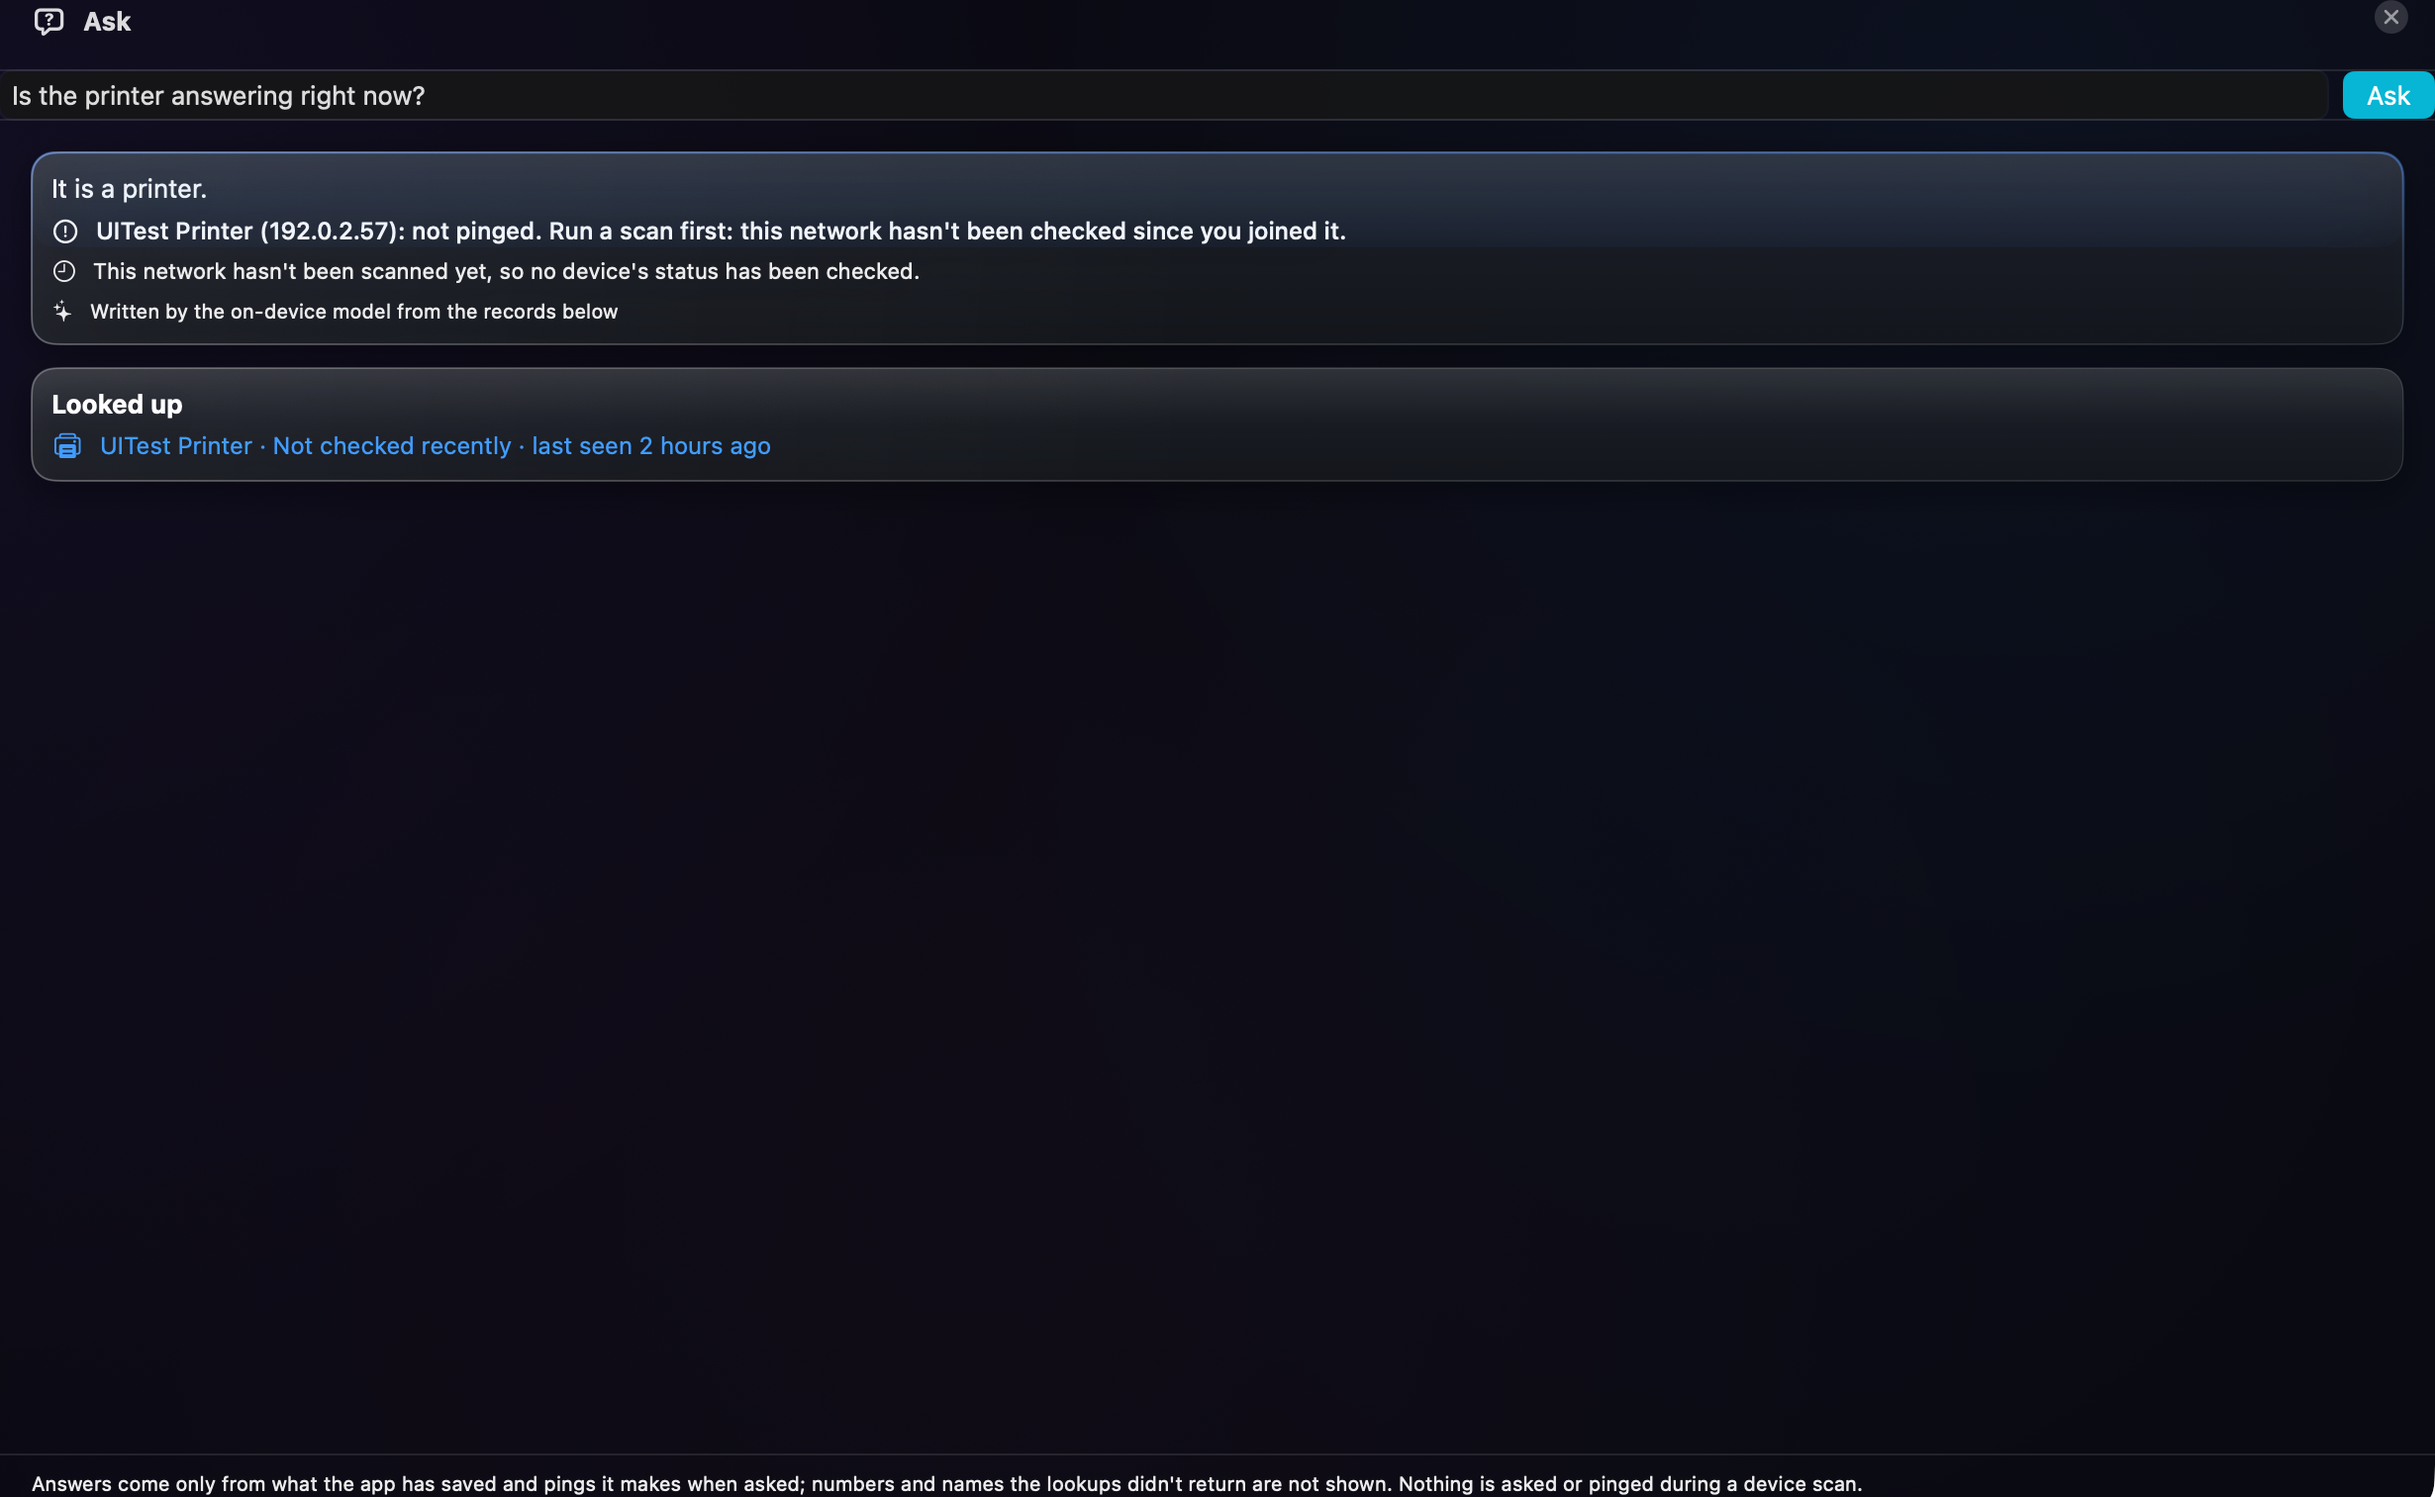
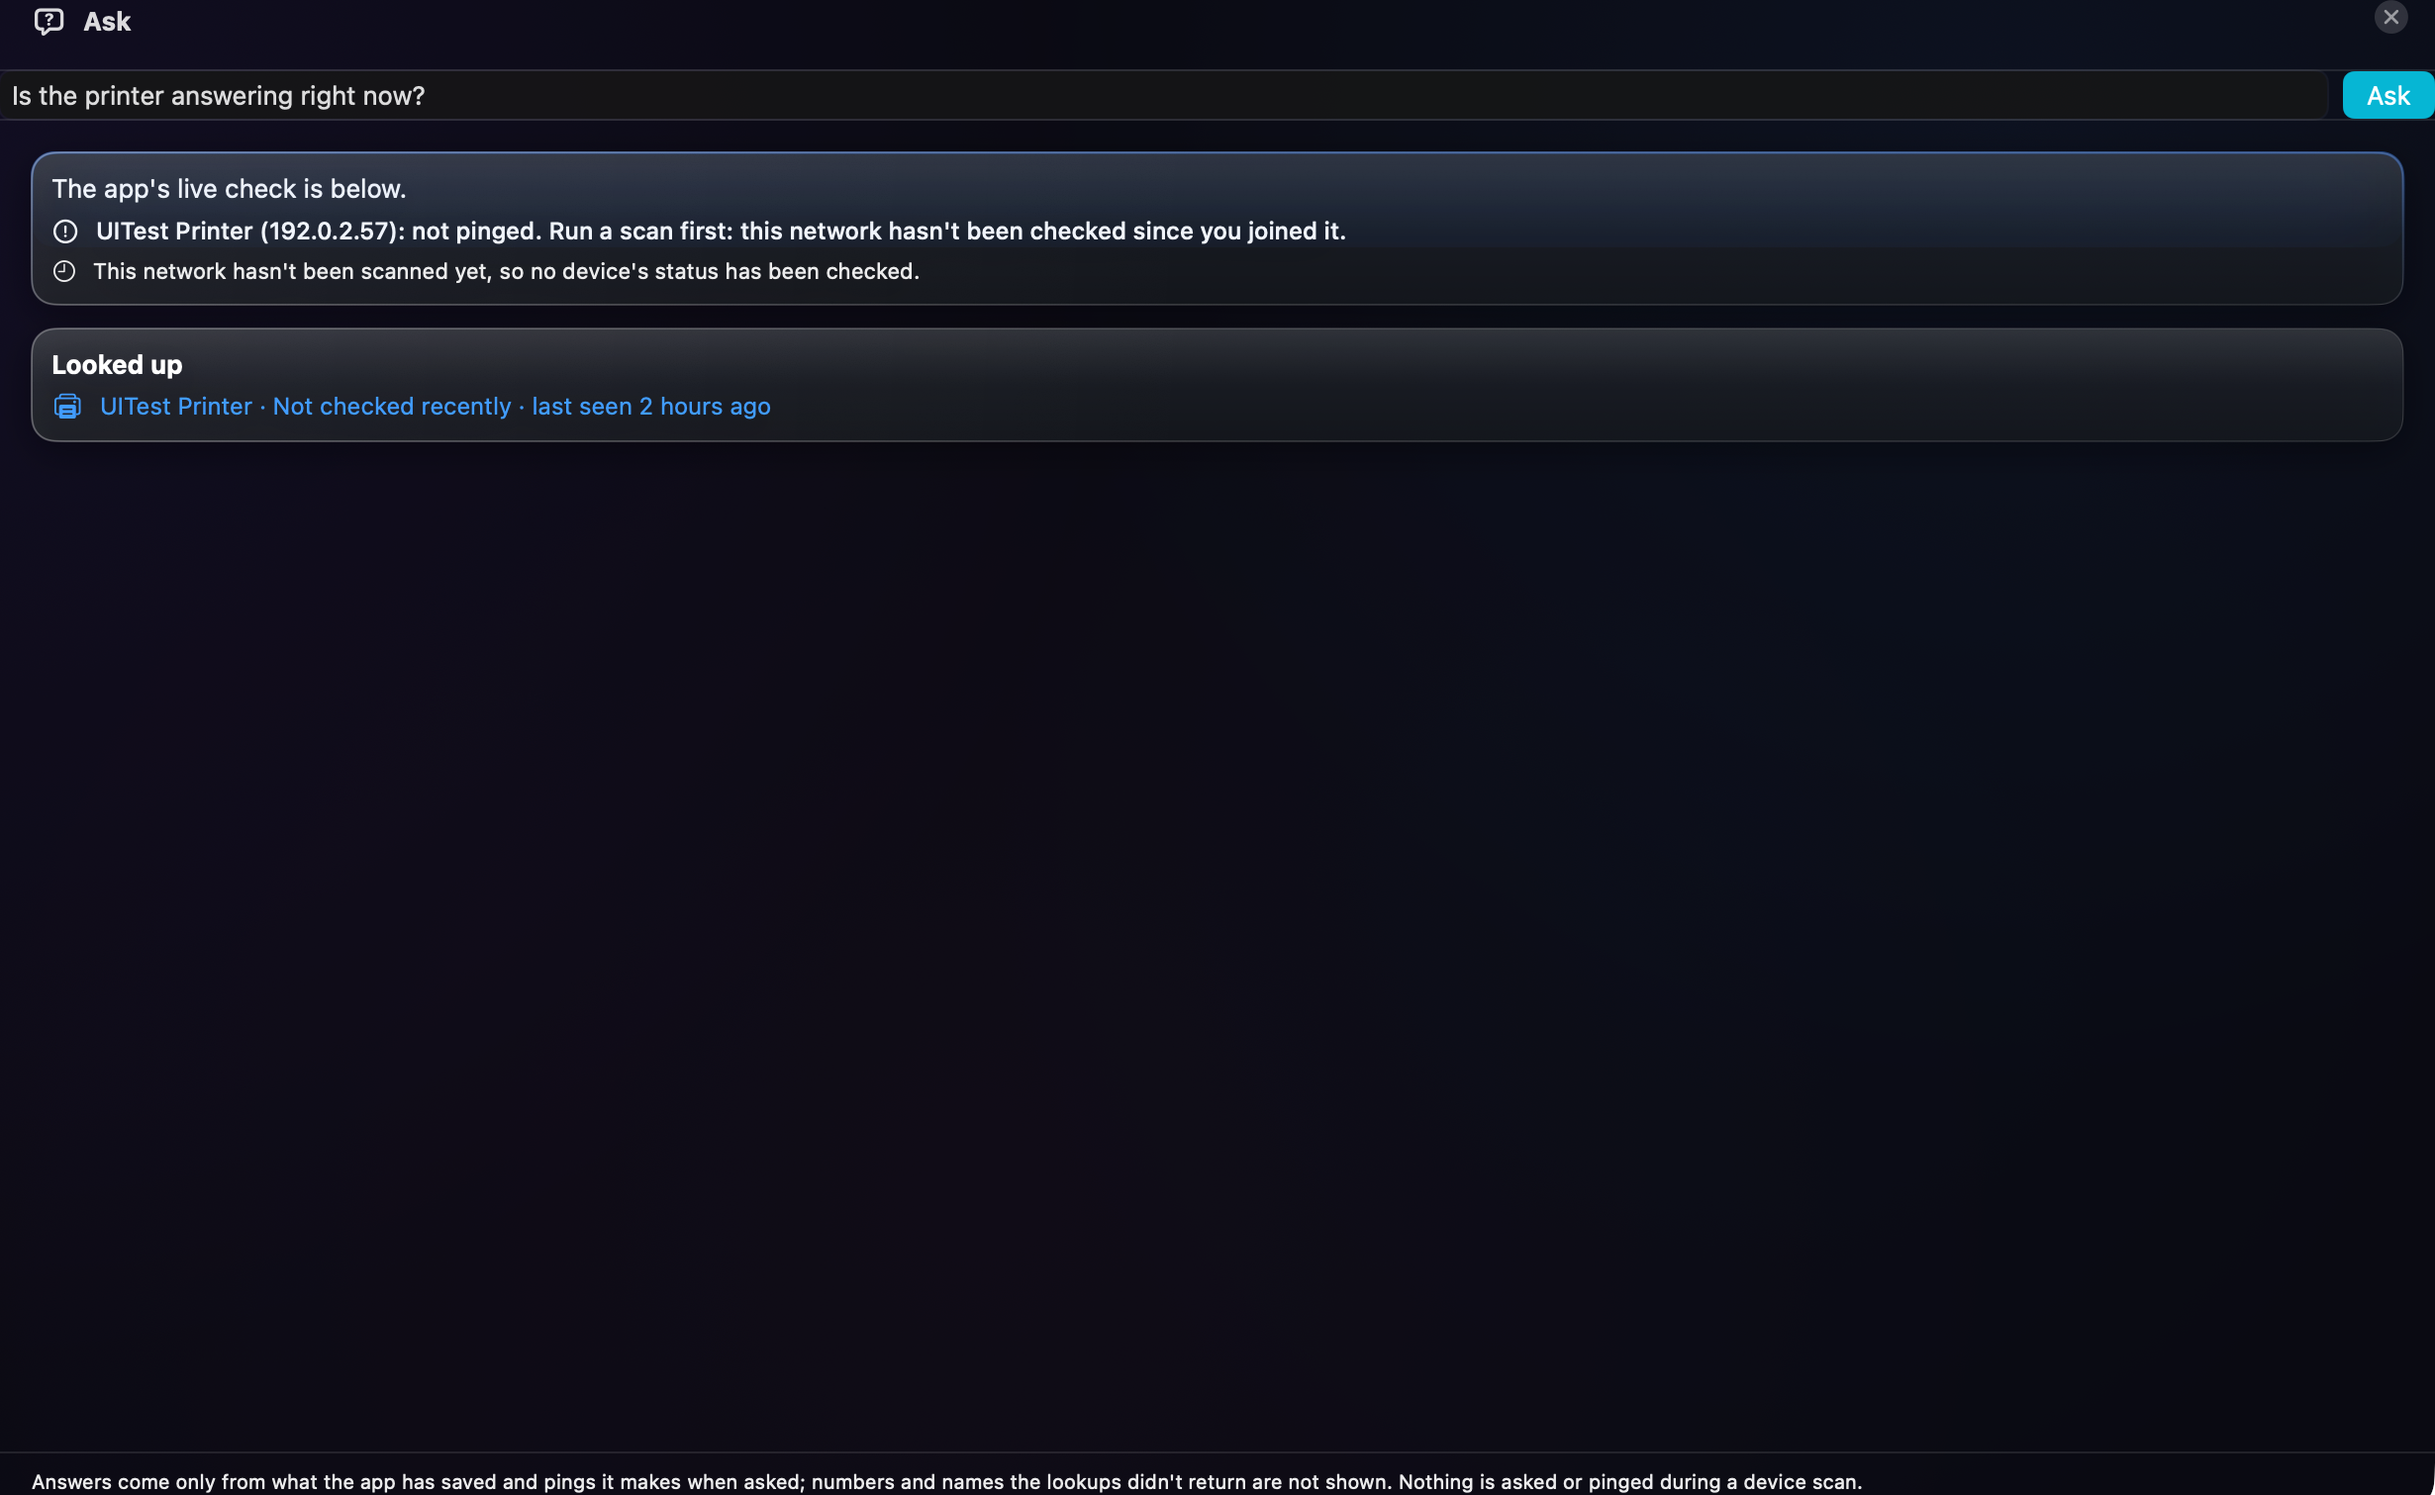
Evidence for #579 after the #627 verification round

Changed region(s): [[0.0, 0.1244, 0.9886, 0.3111], [0.2472, 0.1555, 0.278, 0.1866]]

diff --git a/probe/Sources/Probe/main.swift b/probe/Sources/Probe/main.swift
@@ -46,7 +46,7 @@ let homeNetwork = NetworkProfile(id: home, interfaceName: "en0", ipAddress: "192
                                         interfaceAddress: NetworkUtilities.ipv4ToUInt32("192.168.1.10")!, netmask: 0xFFFF_FF00),
   connectionType: .wifi, name: "Home", gatewayIP: "192.168.1.1", subnet: "192.168.1.0/24", isLocal: true, discoveryMethod: .auto)
 let live = AskLiveTools(pinger: FixturePinger(), currentNetwork: { homeNetwork },
-  connection: { .init(type: .wifi, gatewayIP: "192.168.1.1") }, isScanning: { false }, joinedAt: { now.addingTimeInterval(-3600) }, now: { now })
+  connection: { .init(type: .wifi, gatewayIP: "192.168.1.1") }, isScanning: { false }, establishedScan: { now.addingTimeInterval(-180) }, now: { now })
 let snapshot = AskSnapshot(devices: devices, events: events, networkProfileID: home, lastScan: now.addingTimeInterval(-180), now: now, calendar: calendar)
 let staleDevices = devices.map { d in AskDevice(id: d.id, displayName: d.displayName, deviceType: d.deviceType, maker: d.maker, ipAddress: d.ipAddress,
   status: d.status, lastSeen: d.status == .online ? now.addingTimeInterval(-2400) : d.lastSeen, lastLatency: d.lastLatency, latencyHistory: d.latencyHistory) }

diff --git a/probe/Package.swift b/probe/Package.swift
@@ -5,6 +5,5 @@ let package = Package(
   name: "Probe579",
   platforms: [.macOS("15.0")],
   dependencies: [.package(path: "/Users/blake/Projects/NetMonitor-2.0-579/Packages/NetMonitorCore")],
-  targets: [.executableTarget(name: "Probe", dependencies: [.product(name: "NetMonitorCore", package: "NetMonitorCore")], path: "Sources/Probe"),
-    .executableTarget(name: "LiveCheck", dependencies: [.product(name: "NetMonitorCore", package: "NetMonitorCore")], path: "Sources/LiveCheck")]
+  targets: [.executableTarget(name: "Probe", dependencies: [.product(name: "NetMonitorCore", package: "NetMonitorCore")], path: "Sources/Probe")]
 )
